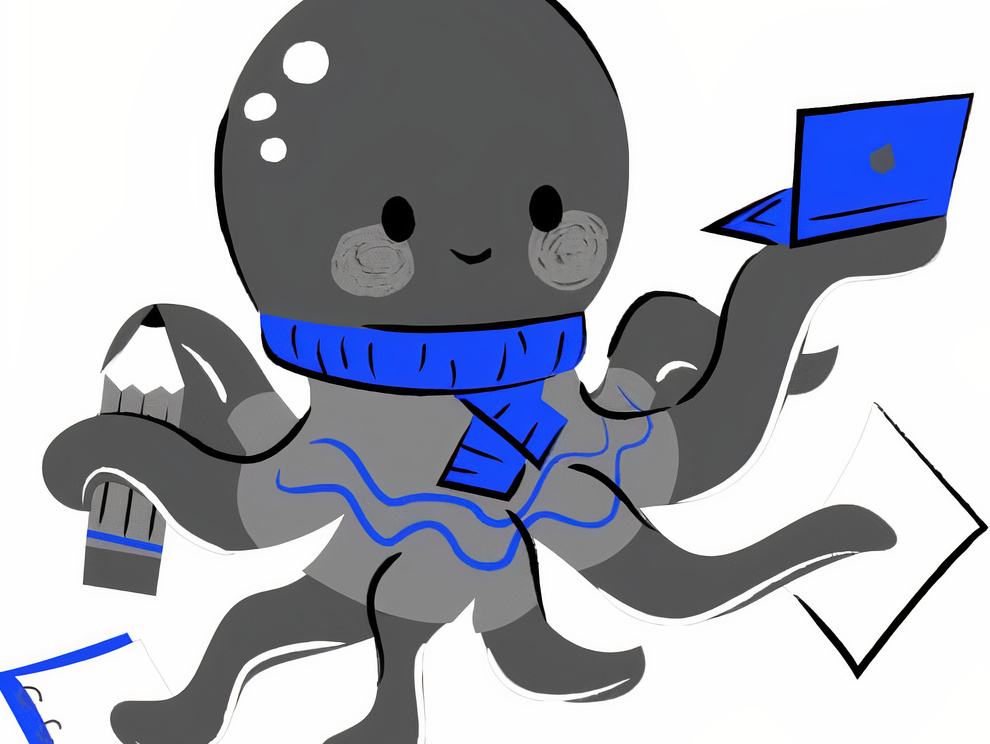
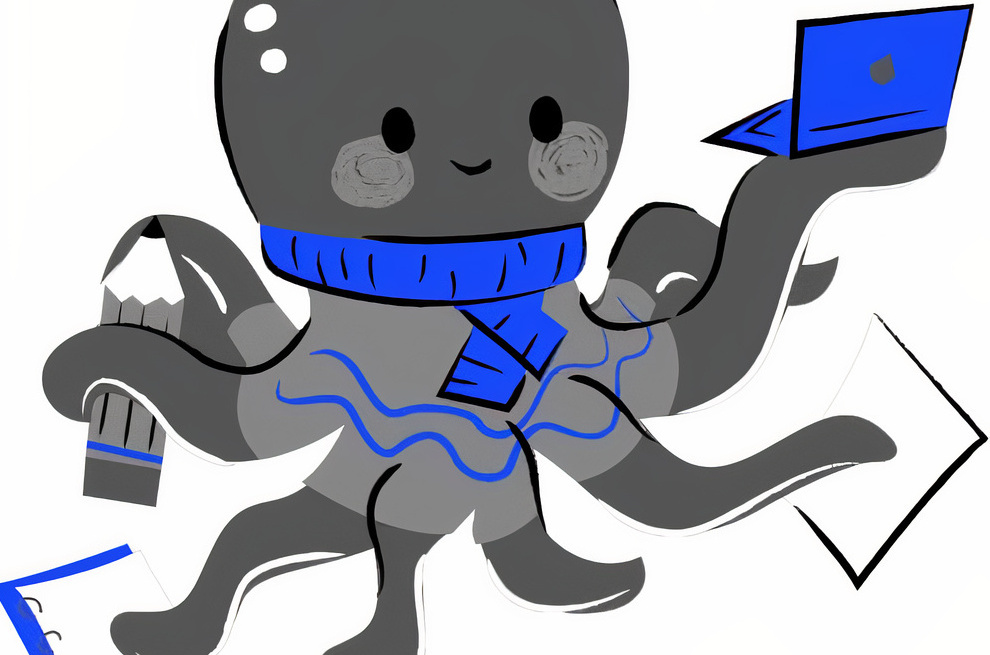
imagem adicionada perfeitamente

diff --git a/core/templates/core/welcome.html b/core/templates/core/welcome.html
@@ -10,13 +10,12 @@
 
 {% block 'body' %}
     <main id="main">
-        <div id="img-logo">
-            <!-- <img src="{% static 'images/octopus.jpg' %}" alt=""> -->
-        </div>
+        <div id="img-logo"></div>
         
         <div id="content">
             <div class="content-body">
                 <h1>Organize o seu dia com o remember now</h1>
+
                 <p>Lorem ipsum dolor sit amet consectetur adipisicing elit. Ea omnis delectus debitis esse, earum architecto amet saepe laboriosam repudiandae placeat distinctio eum doloribus et ratione maxime! Maiores delectus eos ipsum!</p>
             </div>
         </div>

diff --git a/core/static/css/welcome.css b/core/static/css/welcome.css
@@ -1,19 +1,19 @@
 #main {
     display: flex;
     height: 100vh;
-    align-items: center;
+}
+
+#img-logo, #content {
+    width: 50%;
+    height: 100%;
 }
 
 #img-logo {
-    width: 50%;
-    height: 100%;
-    background: url("/static/images/octopus.jpg");
+    background: url("/static/images/octopus_auto_x2.jpg");
     background-position: top right;
 }
 
 #content {
-    width: 50%;
-    height: 100vh;
     display: flex;
     align-items: center;
     justify-content: center;
